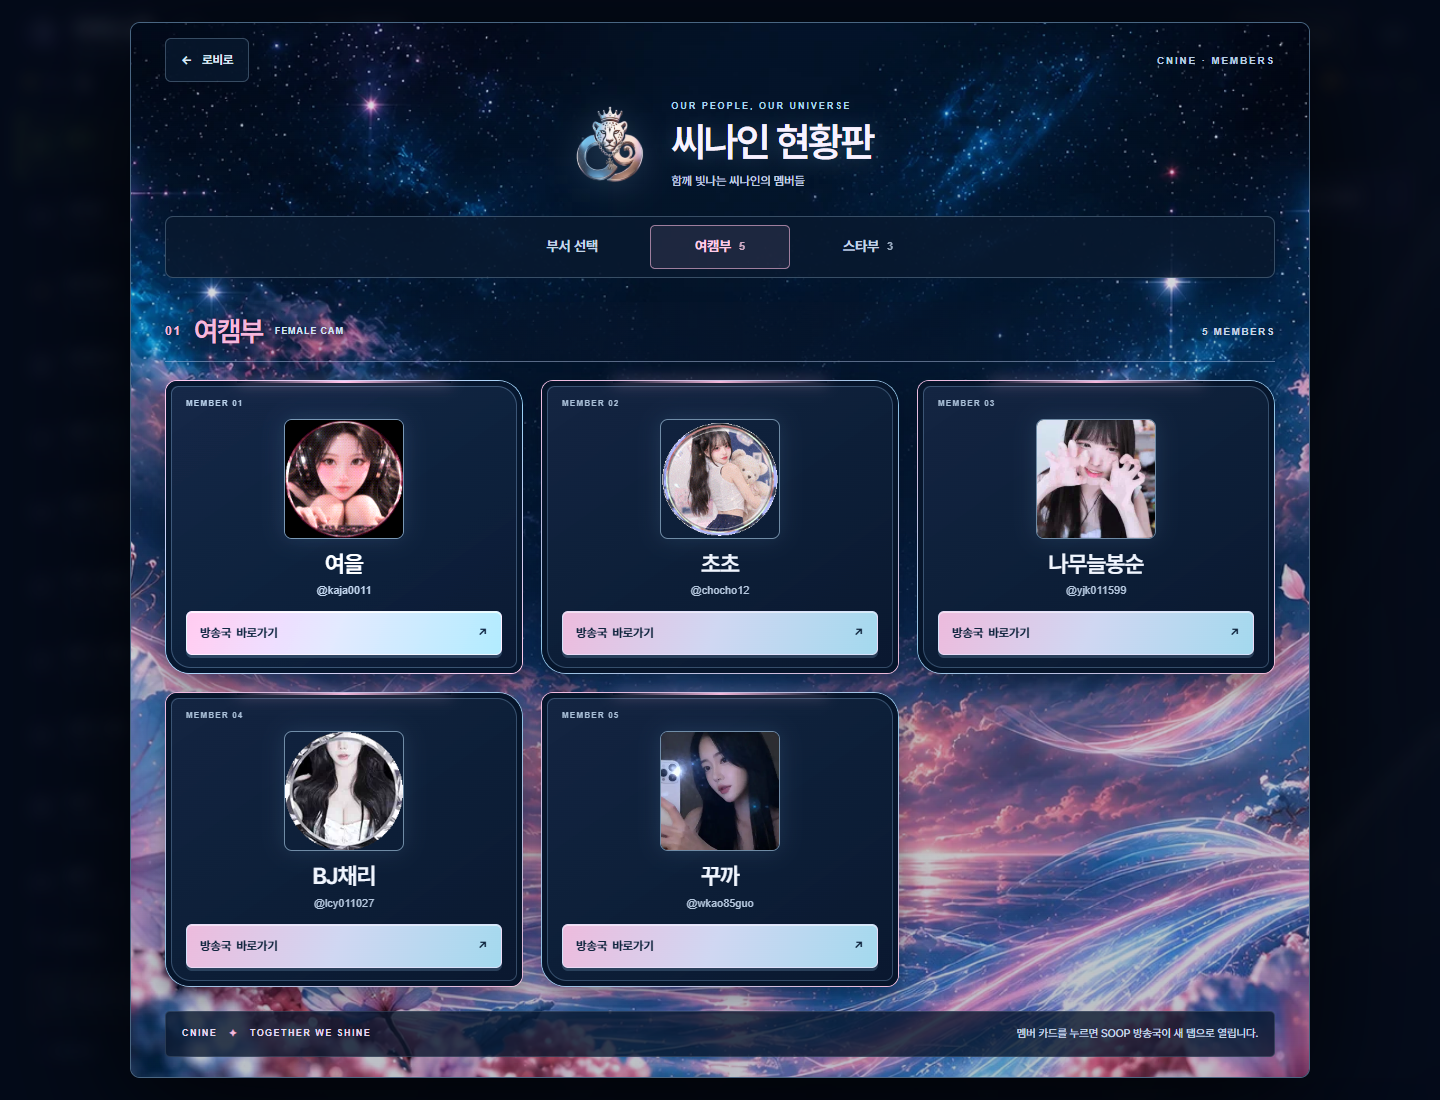
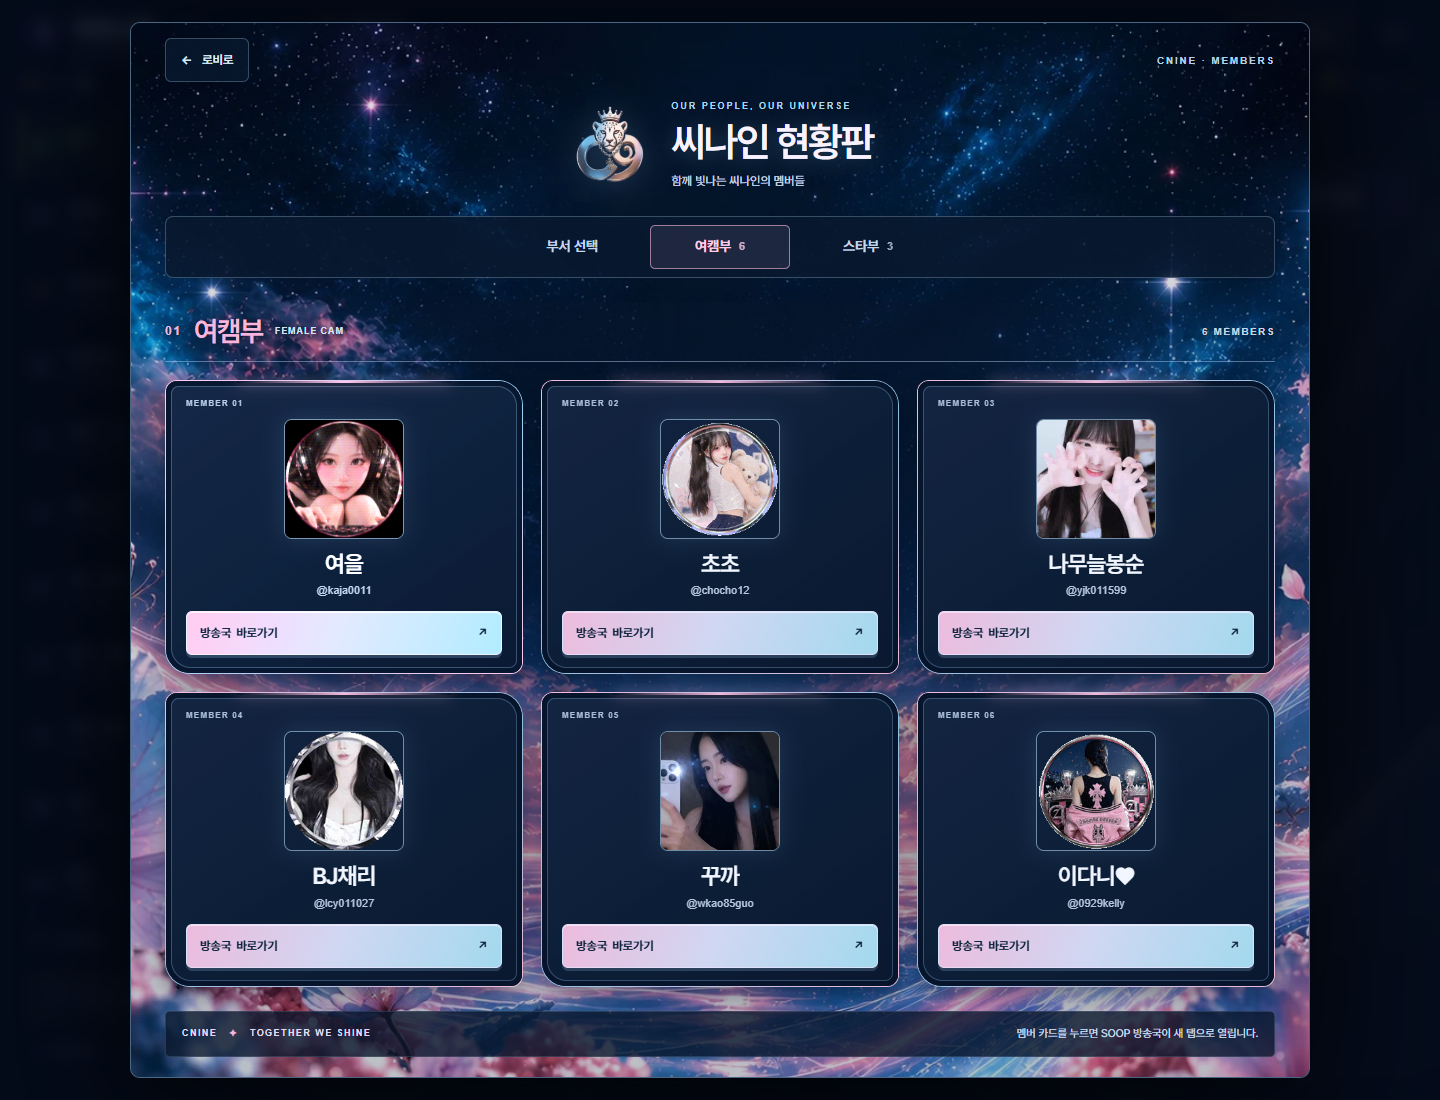
feat: add Idani to CNINE female department

Changed region(s): [[0.625, 0.6182, 0.9062, 0.9273], [0.7188, 0.4018, 0.8125, 0.4945]]

diff --git a/js/cnine-roster-v1.js b/js/cnine-roster-v1.js
@@ -6,7 +6,8 @@ export const CNINE_GROUPS = Object.freeze([
     Object.freeze({ id: 'chocho12', name: '초초' }),
     Object.freeze({ id: 'yjk011599', name: '나무늘봉순' }),
     Object.freeze({ id: 'lcy011027', name: 'BJ채리' }),
-    Object.freeze({ id: 'wkao85guo', name: '꾸까' })
+    Object.freeze({ id: 'wkao85guo', name: '꾸까' }),
+    Object.freeze({ id: '0929kelly', name: '이다니♥' })
   ]) }),
   Object.freeze({ id: 'star', name: '스타부', label: 'STARCRAFT', members: Object.freeze([
     Object.freeze({ id: 'mew030709', name: '남수댕' }),

diff --git a/docs/qa/cnine-departments-20261026/README.md b/docs/qa/cnine-departments-20261026/README.md
@@ -1,9 +1,9 @@
-# 씨나인 현황판 부서 분리 · BJ채리/꾸까 추가 — 2026-10-26
+# 씨나인 현황판 부서 분리 · BJ채리/꾸까/이다니♥ 추가 — 2026-10-26
 
-사용자 요청: 여캠부 기존 목록 아래에 BJ채리 `lcy011027`, 꾸까 `wkao85guo`를 추가하고, 여캠부/스타부를 별도 페이지로 나누어 각각 3열로 표시한다. 상단에 부서별 진입 페이지를 제공한다.
+사용자 요청: 여캠부 기존 목록 아래에 BJ채리 `lcy011027`, 꾸까 `wkao85guo`와 후속 요청 이다니♥ `0929kelly`를 추가하고, 여캠부/스타부를 별도 페이지로 나누어 각각 3열로 표시한다. 상단에 부서별 진입 페이지를 제공한다.
 
 - 로비의 작은 씨나인 현황판 버튼은 기존 위치/크기를 유지한다. 처음 열면 두 부서 진입 화면이 표시되고 상단의 부서 선택·여캠부·스타부로 이동한다. 한 번에 선택한 페이지만 보이며 다시 열면 부서 선택 화면부터 시작한다.
-- 여캠부: 여을 → 초초 → 나무늘봉순 → BJ채리 → 꾸까. 기존 첫 줄 3명 뒤의 두 번째 줄에 새 2명을 표시한다. 스타부: 남수댕 → 조은 → 디임. PC/모바일 모두 3열이며 인원 표시는 목록에서 계산한다.
+- 여캠부: 여을 → 초초 → 나무늘봉순 → BJ채리 → 꾸까 → 이다니♥. 기존 첫 줄 3명 뒤의 두 번째 줄에 새 3명을 표시한다. 스타부: 남수댕 → 조은 → 디임. PC/모바일 모두 3열이며 인원 표시는 목록에서 계산한다.
 - 기존 승인 배경·C9 로고·원본 SOOP 프로필 경로와 이미지 실패 대체 동작을 재사용한다. 방송국 링크는 지정 주소를 새 탭으로 열며 `noopener noreferrer`를 유지한다. 로비로/Escape 복귀와 초점 복원, 선택한 부서 제목으로의 키보드 초점 이동을 지원한다.
 - 현황판 JS/CSS, 라운지의 현황판 import, index 로더, 서비스 워커 캐시만 변경한다. 기존 라운지 명부/CMS, 계정/재화/게임 설정은 변경하지 않는다.
 
